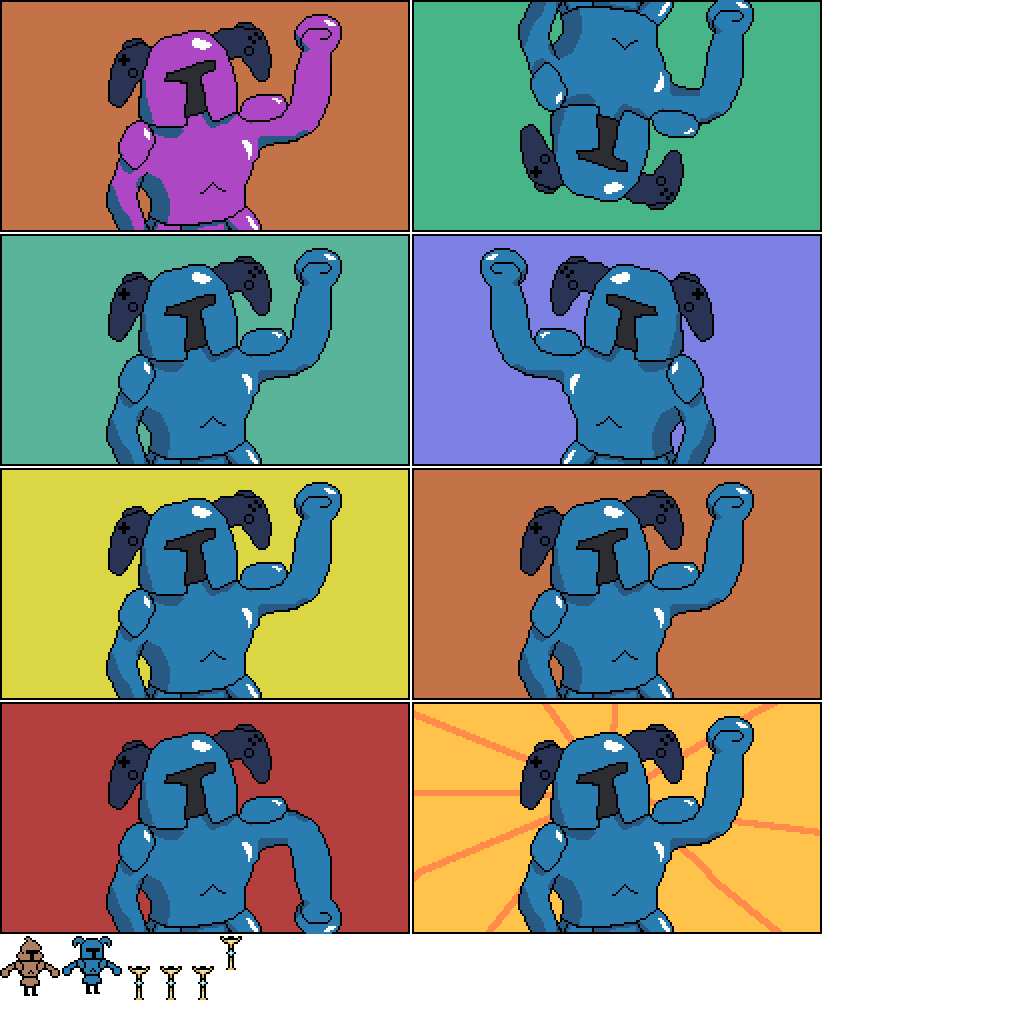
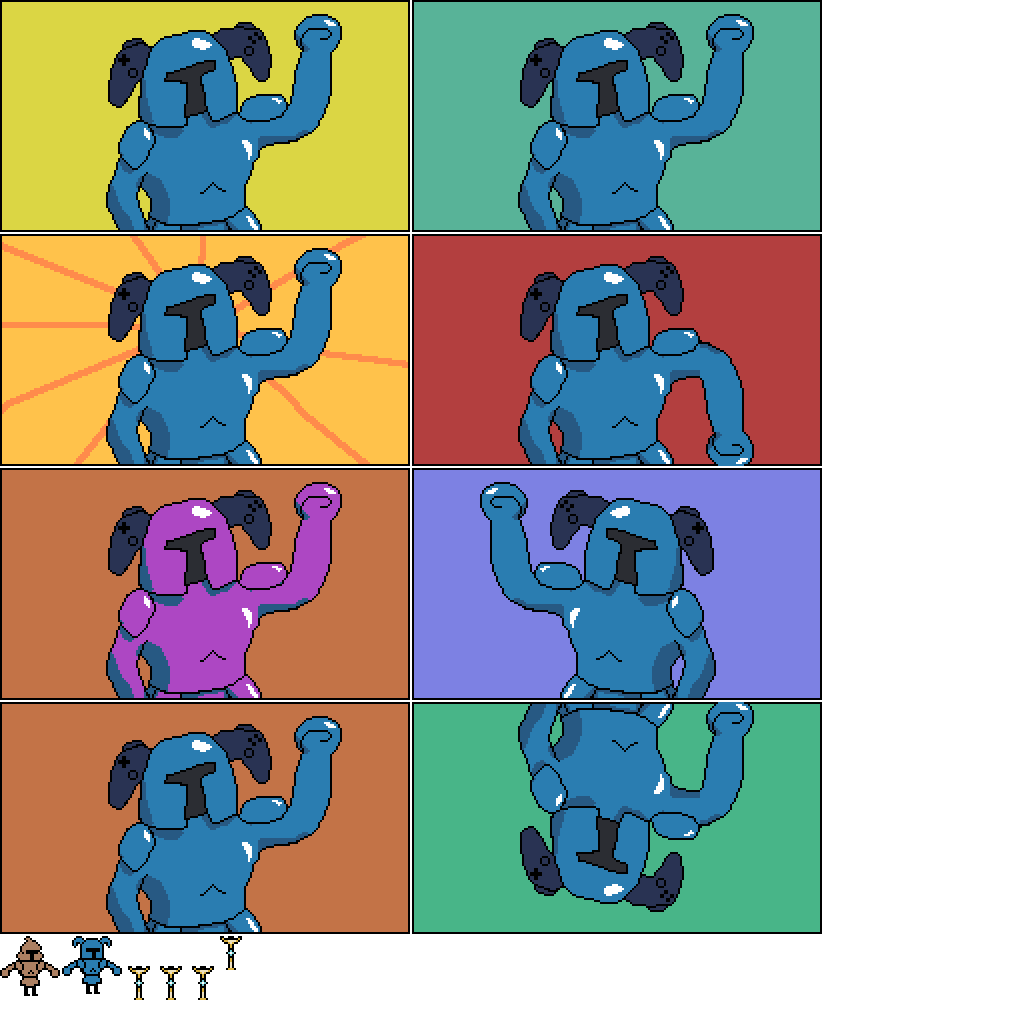
Add close buttons to dialogs

diff --git a/ShovelwareKnight/out/index.js b/ShovelwareKnight/out/index.js
@@ -8,7 +8,7 @@ var loadedGoogleCount = 0;
 var gFontsUpdateCacheList = [];
 var tFontsUpdateCacheList = [];
 lib.ssMetadata = [
-		{name:"index_atlas_", frames: [[124,936,30,64],[156,936,30,64],[188,936,30,64],[220,936,22,34],[0,234,410,232],[0,468,410,232],[412,468,410,232],[0,0,410,232],[412,234,410,232],[0,702,410,232],[412,0,410,232],[412,702,410,232],[62,936,60,58],[0,936,60,60]]}
+		{name:"index_atlas_", frames: [[124,936,30,64],[156,936,30,64],[188,936,30,64],[220,936,22,34],[412,0,410,232],[0,0,410,232],[0,702,410,232],[0,468,410,232],[412,468,410,232],[412,234,410,232],[412,702,410,232],[0,234,410,232],[62,936,60,58],[0,936,60,60]]}
 ];
 
 
@@ -1651,6 +1651,35 @@ p.nominalBounds = new cjs.Rectangle(-31,-58,60,58);
 }).prototype = getMCSymbolPrototype(lib.Cloud, new cjs.Rectangle(-327.6,-68.7,655.2,137.4), null);
 
 
+(lib.CloseButton = function(mode,startPosition,loop) {
+	this.initialize(mode,startPosition,loop,{});
+
+	// timeline functions:
+	this.frame_0 = function() {
+		this.addEventListener('click', hideCurrentThing);
+		
+		function hideCurrentThing(evt) {
+			globalGameManager.exitEditor();
+			createjs.Sound.muted = false;
+		}
+	}
+
+	// actions tween:
+	this.timeline.addTween(cjs.Tween.get(this).call(this.frame_0).wait(1));
+
+	// Layer_1
+	this.shape = new cjs.Shape();
+	this.shape.graphics.f("#462C1B").s().p("AAFDlQgWgEgYgDIgFgCIgMgFIgXgIQhKgChJgFIgBgDIAAgPIAAjRIAAidIABgIIACgFIAqAAIAQgIIALgIIAGgGIEtgFIAKgFQADgCADAAQAUgBATADQABAAAAAAQABAAAAAAQAAABAAAAQABABAAAAIAEAIIAFAHIAGAIIAFAHQABAEAAAEQAAADgBAEIgFAIIgCAHIAAAIIAAAHIgBAPIgCAHIgFAIQgEALACAMIAAAHIAAAIIAAAPIAAAHIAAAIIgFAHIgDAIIgCAHIAAAIIAAAHIgBAIIgDAHIgEAHQgEAOABAQIABBhIAAAtIAAAIIAAAHIgEAHIgDAIIgDAIIAAAHIAAAEQhRAFhSABQgGgCgHgBgAAXAPIAIAHIAHAIIADAHIACAIIAKAHQAFAEAEAFQADACABAEIADAIIACAHIACAIIADAHIAIAHIAJAIQAJgBAIgEQADgBACgEIADgHIgDgIIgCgHIgCgIIAAgHIgBgIIgCgHIgNgPIgPgPIgHgIIgFgIIgDgGIgFgHIgHgIIgGgGIADgEIAUgWQAUgIAPgNQASgQAIgXIgDgIQgBgEgDgCQgDgFgGgEIgEABQgHAAgFADQgEACgEAEIgPAPIgIAIQgIADgGAFIgTAOIgLAVQgPgTgTgPQgZgVgTgaIgOgHIgQgIIgEABQgGAAgGADQgDACgDAEIgBAIIACAHIAEAIIAIAHIAMAIIAFAHIAFAIIANAHIADAGIAYARIAIAHQAKAKAHANIADAGQgfAcgiAWIgHAIIgHAOIgGAIQgNAIgKAKQgFAFgDAHIAFAHIAIAIIASADQAYgNASgWQAegiAkgZIADAEg");
+	this.shape.setTransform(0.5,0.1);
+
+	this.shape_1 = new cjs.Shape();
[1 lines of base64/hex data omitted]
+
+	this.timeline.addTween(cjs.Tween.get({}).to({state:[{t:this.shape_1},{t:this.shape}]}).wait(1));
+
+}).prototype = getMCSymbolPrototype(lib.CloseButton, new cjs.Rectangle(-27.5,-27.4,55,54.8), null);
+
+
 (lib.CheckPoint = function(mode,startPosition,loop) {
 	this.initialize(mode,startPosition,loop,{});
 
@@ -1752,6 +1781,13 @@ p.nominalBounds = new cjs.Rectangle(-15,-64,30,64);
 
 	// actions tween:
 	this.timeline.addTween(cjs.Tween.get(this).call(this.frame_0).wait(1).call(this.frame_1).wait(1));
+
+	// Close
+	this.instance = new lib.CloseButton();
+	this.instance.parent = this;
+	this.instance.setTransform(603.7,37.2);
+
+	this.timeline.addTween(cjs.Tween.get(this.instance).wait(2));
 
 	// Words
 	this.error = new lib.Error();
@@ -2556,11 +2592,11 @@ p.nominalBounds = new cjs.Rectangle(-15,-64,30,64);
 	this.timeline.addTween(cjs.Tween.get({}).to({state:[{t:this.itchButton},{t:this.checkButton}]}).to({state:[{t:this.doneButton}]},1).wait(1));
 
 	// Frame
-	this.instance = new lib.UIFrame();
-	this.instance.parent = this;
-	this.instance.setTransform(319.1,238.3);
+	this.instance_1 = new lib.UIFrame();
+	this.instance_1.parent = this;
+	this.instance_1.setTransform(319.1,238.3);
 
-	this.timeline.addTween(cjs.Tween.get(this.instance).wait(2));
+	this.timeline.addTween(cjs.Tween.get(this.instance_1).wait(2));
 
 	// Image Layer
 	this.imageLayer = new lib.empty();
@@ -4877,6 +4913,13 @@ p.nominalBounds = new cjs.Rectangle(-15.9,-23.9,679.8,533.8);
 
 	this.timeline.addTween(cjs.Tween.get({}).to({state:[{t:this.shape_48},{t:this.shape_47},{t:this.shape_46},{t:this.shape_45},{t:this.shape_44},{t:this.shape_43},{t:this.shape_42},{t:this.shape_41},{t:this.shape_40,p:{x:364.7,y:111.1}},{t:this.shape_39},{t:this.shape_38},{t:this.shape_37},{t:this.shape_36},{t:this.shape_35,p:{x:514.7,y:111.1}},{t:this.shape_34,p:{x:91.2,y:135}},{t:this.shape_33},{t:this.shape_32},{t:this.shape_31},{t:this.shape_30},{t:this.shape_29,p:{x:239.7,y:138.2}},{t:this.shape_28},{t:this.shape_27},{t:this.shape_26,p:{x:339.7,y:138.2}},{t:this.shape_25,p:{x:364.7,y:138.2}},{t:this.shape_24,p:{x:389.7,y:138.2}},{t:this.shape_23},{t:this.shape_22,p:{x:439.7,y:138.2}},{t:this.shape_21},{t:this.shape_20},{t:this.shape_19},{t:this.shape_18},{t:this.shape_17},{t:this.shape_16},{t:this.shape_15,p:{x:202.2,y:165.2}},{t:this.shape_14},{t:this.shape_13},{t:this.shape_12},{t:this.shape_11},{t:this.shape_10,p:{x:327.2,y:166.8}},{t:this.shape_9},{t:this.shape_8},{t:this.shape_7},{t:this.shape_6},{t:this.shape_5},{t:this.shape_4},{t:this.shape_3,p:{x:289.7,y:192.3}},{t:this.shape_2},{t:this.shape_1},{t:this.shape,p:{x:364.7,y:189.1}}]}).to({state:[{t:this.shape_120},{t:this.shape_119,p:{x:104.9}},{t:this.shape_118,p:{x:116.9}},{t:this.shape_117,p:{x:129.6}},{t:this.shape_116,p:{x:140.9,y:47.9}},{t:this.shape_115,p:{x:153.6}},{t:this.shape_114,p:{x:164.9}},{t:this.shape_113},{t:this.shape_112},{t:this.shape_111},{t:this.shape_110},{t:this.shape_109},{t:this.shape_108},{t:this.shape_107,p:{x:272.9}},{t:this.shape_106,p:{x:284.9}},{t:this.shape_105},{t:this.shape_104},{t:this.shape_103},{t:this.shape_102},{t:this.shape_101},{t:this.shape_100,p:{x:357.6}},{t:this.shape_99,p:{x:380.9}},{t:this.shape_98,p:{x:392.9}},{t:this.shape_97,p:{x:404.9}},{t:this.shape_96,p:{x:416.9}},{t:this.shape_95,p:{x:440.9}},{t:this.shape_94,p:{x:452.9}},{t:this.shape_93,p:{x:476.9}},{t:this.shape_92,p:{x:488.9}},{t:this.shape_91,p:{x:500.9}},{t:this.shape_90},{t:this.shape_89},{t:this.shape_88,p:{x:537.6}},{t:this.shape_87,p:{x:548.9}},{t:this.shape_86},{t:this.shape_85},{t:this.shape_84},{t:this.shape_83},{t:this.shape_82},{t:this.shape_81},{t:this.shape_80},{t:this.shape_79},{t:this.shape_78},{t:this.shape_77},{t:this.shape_76},{t:this.shape_75},{t:this.shape_74},{t:this.shape_73},{t:this.shape_72},{t:this.shape_71},{t:this.shape_70},{t:this.shape_69},{t:this.shape_68},{t:this.shape_67},{t:this.shape_66,p:{x:350.9,y:61.9}},{t:this.shape_65},{t:this.shape_64},{t:this.shape_63},{t:this.shape_62,p:{x:410.9,y:61.9}},{t:this.shape_61,p:{x:422.9}},{t:this.shape_60,p:{x:446.9}},{t:this.shape_59},{t:this.shape_58},{t:this.shape_57,p:{x:483.6}},{t:this.shape_56,p:{x:494.9}},{t:this.shape_55,p:{x:507.6}},{t:this.shape_54},{t:this.shape_53},{t:this.shape_52,p:{x:542.9,y:61.9}},{t:this.shape_51},{t:this.shape_50,p:{x:566.9,y:61.9}},{t:this.shape_49,p:{x:578.9}}]},1).to({state:[{t:this.shape_163},{t:this.shape_162},{t:this.shape_161},{t:this.shape_160,p:{x:123.6}},{t:this.shape_50,p:{x:134.9,y:47.9}},{t:this.shape_117,p:{x:147.6}},{t:this.shape_119,p:{x:158.9}},{t:this.shape_87,p:{x:170.9}},{t:this.shape_159},{t:this.shape_158},{t:this.shape_157},{t:this.shape_156},{t:this.shape_155,p:{x:254.9}},{t:this.shape_154},{t:this.shape_66,p:{x:278.9,y:47.9}},{t:this.shape_153},{t:this.shape_100,p:{x:303.6}},{t:this.shape_99,p:{x:326.9}},{t:this.shape_98,p:{x:338.9}},{t:this.shape_97,p:{x:350.9}},{t:this.shape_96,p:{x:362.9}},{t:this.shape_95,p:{x:386.9}},{t:this.shape_94,p:{x:398.9}},{t:this.shape_93,p:{x:422.9}},{t:this.shape_92,p:{x:434.9}},{t:this.shape_91,p:{x:446.9}},{t:this.shape_152},{t:this.shape_151},{t:this.shape_115,p:{x:483.6}},{t:this.shape_150,p:{x:494.9}},{t:this.shape_149},{t:this.shape_148},{t:this.shape_88,p:{x:543.6}},{t:this.shape_147},{t:this.shape_146},{t:this.shape_145},{t:this.shape_144},{t:this.shape_143},{t:this.shape_142},{t:this.shape_141},{t:this.shape_140},{t:this.shape_139},{t:this.shape_49,p:{x:200.9}},{t:this.shape_138},{t:this.shape_137},{t:this.shape_136},{t:this.shape_56,p:{x:260.9}},{t:this.shape_135},{t:this.shape_134},{t:this.shape_133},{t:this.shape_62,p:{x:320.9,y:61.9}},{t:this.shape_61,p:{x:332.9}},{t:this.shape_132},{t:this.shape_60,p:{x:356.9}},{t:this.shape_131},{t:this.shape_130},{t:this.shape_129},{t:this.shape_128},{t:this.shape_127},{t:this.shape_57,p:{x:453.6}},{t:this.shape_126},{t:this.shape_55,p:{x:477.6}},{t:this.shape_125},{t:this.shape_124},{t:this.shape_123},{t:this.shape_122},{t:this.shape_116,p:{x:536.9,y:61.9}},{t:this.shape_121}]},1).to({state:[{t:this.shape_181},{t:this.shape_114,p:{x:128.9}},{t:this.shape_180},{t:this.shape_179},{t:this.shape_178},{t:this.shape_118,p:{x:188.9}},{t:this.shape_52,p:{x:200.9,y:47.9}},{t:this.shape_177},{t:this.shape_160,p:{x:237.6}},{t:this.shape_176},{t:this.shape_175},{t:this.shape_117,p:{x:285.6}},{t:this.shape_150,p:{x:296.9}},{t:this.shape_174},{t:this.shape_173},{t:this.shape_172},{t:this.shape_171},{t:this.shape_115,p:{x:381.6}},{t:this.shape_170},{t:this.shape_169},{t:this.shape_168},{t:this.shape_106,p:{x:428.9}},{t:this.shape_167},{t:this.shape_107,p:{x:452.9}},{t:this.shape_62,p:{x:464.9,y:47.9}},{t:this.shape_88,p:{x:477.6}},{t:this.shape_155,p:{x:488.9}},{t:this.shape_166},{t:this.shape_165},{t:this.shape_164},{t:this.shape_100,p:{x:537.6}}]},1).to({state:[]},1).to({state:[{t:this.shape_206},{t:this.shape_29,p:{x:127.2,y:99.1}},{t:this.shape_205},{t:this.shape_204},{t:this.shape_203},{t:this.shape_202},{t:this.shape_201},{t:this.shape_26,p:{x:327.2,y:99.1}},{t:this.shape_200},{t:this.shape_199},{t:this.shape_10,p:{x:427.2,y:100.7}},{t:this.shape_198},{t:this.shape_25,p:{x:477.2,y:99.1}},{t:this.shape_24,p:{x:502.2,y:99.1}},{t:this.shape_197},{t:this.shape_196},{t:this.shape_35,p:{x:177.2,y:126.2}},{t:this.shape_195},{t:this.shape_194},{t:this.shape_193},{t:this.shape_192},{t:this.shape_191},{t:this.shape_190},{t:this.shape_3,p:{x:402.2,y:126.2}},{t:this.shape_189},{t:this.shape_15,p:{x:452.2,y:126.2}},{t:this.shape_40,p:{x:477.2,y:126.2}},{t:this.shape_34,p:{x:203.7,y:150.1}},{t:this.shape_22,p:{x:227.2,y:153.2}},{t:this.shape_188},{t:this.shape_187},{t:this.shape_186},{t:this.shape_185},{t:this.shape,p:{x:352.2,y:150.1}},{t:this.shape_184},{t:this.shape_183},{t:this.shape_182},{t:this.muteButton}]},1).wait(1));
 
+	// Close
+	this.instance = new lib.CloseButton();
+	this.instance.parent = this;
+	this.instance.setTransform(603.7,37.2);
+
+	this.timeline.addTween(cjs.Tween.get(this.instance).wait(6));
+
 	// Buttons
 	this.uploadButton = new lib.uploadbutton();
 	this.uploadButton.name = "uploadButton";
@@ -4925,11 +4968,11 @@ p.nominalBounds = new cjs.Rectangle(-15.9,-23.9,679.8,533.8);
 	this.timeline.addTween(cjs.Tween.get(this.nextButton).wait(1).to({_off:false},0).to({_off:true},3).wait(2));
 
 	// Frame
-	this.instance = new lib.UIFrame();
-	this.instance.parent = this;
-	this.instance.setTransform(319.1,238.3);
+	this.instance_1 = new lib.UIFrame();
+	this.instance_1.parent = this;
+	this.instance_1.setTransform(319.1,238.3);
 
-	this.timeline.addTween(cjs.Tween.get(this.instance).wait(6));
+	this.timeline.addTween(cjs.Tween.get(this.instance_1).wait(6));
 
 	// Mouth
 	this.mouth = new lib.Mouth();
@@ -4949,11 +4992,11 @@ p.nominalBounds = new cjs.Rectangle(-15.9,-23.9,679.8,533.8);
 
 	// BG
 	this.shape_207 = new cjs.Shape();
[2 lines of base64/hex data omitted]
 	this.shape_207.setTransform(314.4,223.9);
 
 	this.shape_208 = new cjs.Shape();
[2 lines of base64/hex data omitted]
 	this.shape_208.setTransform(319.1,238.3);
 
 	this.timeline.addTween(cjs.Tween.get({}).to({state:[{t:this.shape_208},{t:this.shape_207}]}).wait(6));
@@ -5237,9 +5280,9 @@ lib.properties = {
 	opacity: 1.00,
 	webfonts: {},
 	manifest: [
-		{src:"images/index_atlas_.png", id:"index_atlas_"},
-		{src:"sounds/IntroSong.mp3", id:"IntroSong"},
-		{src:"sounds/OverworldSong.mp3", id:"OverworldSong"}
+		{src:"images/index_atlas_.png?1512369905864", id:"index_atlas_"},
+		{src:"sounds/IntroSong.mp3?1512369906234", id:"IntroSong"},
+		{src:"sounds/OverworldSong.mp3?1512369906234", id:"OverworldSong"}
 	],
 	preloads: []
 };

diff --git a/ShovelwareKnight/out/index.html b/ShovelwareKnight/out/index.html
@@ -68,7 +68,7 @@ function isFontAvailable(font, obj) {
 	var gFontsFamilies = ["VT323"];
 </script>
 <link rel="stylesheet" type="text/css" href="https://fonts.googleapis.com/css?family=VT323:regular&subset=latin">
-<script src="index.js"></script>
+<script src="index.js?1512369906254"></script>
 <script>
 var canvas, stage, exportRoot, anim_container, dom_overlay_container, fnStartAnimation;
 function init() {
